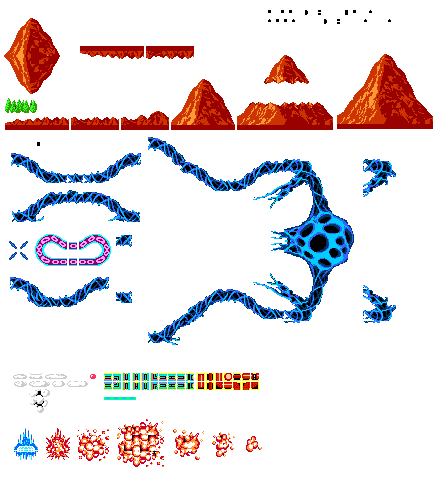
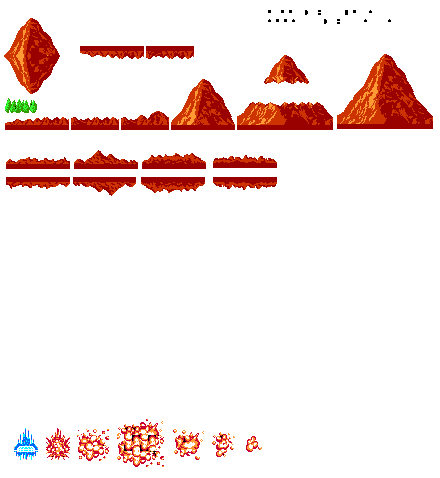
mapBuilder en construction

diff --git a/src/game/entities/Borders.java b/src/game/entities/Borders.java
@@ -5,6 +5,7 @@ import engine.Game;
 import engine.ISU;
 import engine.ISU.Dimension;
 import engine.shapes.Rect;
+import engine.view.View;
 import game.Main;
 import oop.graphics.BufferedImage;
 import oop.graphics.Graphics;
@@ -14,14 +15,29 @@ import oop.graphics.Graphics;
 // Mais pourquoi pas tenter de les tourner directemement dans le code
 public class Borders extends Entity{
 	protected int chosenSprite; //compris entre 0 et 1 pour l'instant
-	protected int chosenPos; //entre 0 et 1
+	protected int chosenPos; //entre 0 et 4
 	public Borders(String name, int chosenSprite, int chosenPos) {
 		super(name);
 		this.setSize(this.isu.new Dimension((Game.cmPerCell*63)/Main.windowScale + 69, (Game.cmPerCell*12)/Main.windowScale + 14));
 		this.chosenSprite = chosenSprite;
 		this.chosenPos = chosenPos;
 		this.avatar = new BorderAvatar(this);
-		//this.setlSpeed(10, 0);
+		
+	}
+	
+	@Override
+	public void setBounding() {
+		//pas de boundingbox
+	}
+	
+	public void tick(double seconds, boolean shift) {
+	    if (shift) {
+	        translate(isu.new Vector((-View.speed/4.0)*Main.windowScale, 0.0));
+	    }
+
+	    if (this.position().x < 0) {
+	        this.die();
+	    }
 	}
 	
 	public class BorderAvatar extends Avatar{
@@ -37,27 +53,39 @@ public class Borders extends Entity{
 		@Override
 		public void getSprites(Graphics g) {
 			BufferedImage imgSprites = g.load("obstacles.png");
-		    this.sprites = new BufferedImage[3][2];
+		    this.sprites = new BufferedImage[5][2];
 		    
 		    this.sprites[0][Bottom] = imgSprites.getSubimage(5, 117, 63, 12);
 		    this.sprites[0][Top] = imgSprites.getSubimage(80, 46, 63, 12);
 		    
-		    this.sprites[1][Bottom] = imgSprites.getSubimage(71, 117, 47, 12);
-		    this.sprites[1][Top] = imgSprites.getSubimage(146, 46, 47, 12);
+		    this.sprites[1][Bottom] = imgSprites.getSubimage(6, 157, 63, 12);
+		    this.sprites[1][Top] = imgSprites.getSubimage(6, 177, 63, 12);
 		    
-		    //this.sprites[2][0] = imgSprites.getSubimage(121, 111, 47, 18);
+		    this.sprites[2][Bottom] = imgSprites.getSubimage(74, 150, 63, 18);
+		    this.sprites[2][Top] = imgSprites.getSubimage(74, 177, 63, 18);
+		    
+		    this.sprites[3][Bottom] = imgSprites.getSubimage(142, 153, 63, 15);
+		    this.sprites[3][Top] = imgSprites.getSubimage(142, 177, 63, 15);
+		    
+		    this.sprites[4][Bottom] = imgSprites.getSubimage(213, 155, 63, 12);
+		    this.sprites[4][Top] = imgSprites.getSubimage(213, 177, 63, 12);
 		    
 		}
 
 		@Override
 		public void paint(Graphics g, int shiftPX) {
-			this.getSprites(g);
+			if (this.sprites == null) {
+	            this.getSprites(g);
+	        }
 	           
             ISU.Coord center = Borders.this.center();
             int posX = this.toPixel(center.x_cm - (Borders.this.size.x_cm / 2));
             int posY = this.toPixel(center.y_cm - (Borders.this.size.y_cm / 2));
+            BufferedImage currentImg = sprites[chosenSprite][chosenPos];
+            int width = (int)(currentImg.getWidth() * Main.windowScale);
+            int height = (int)(currentImg.getHeight() * Main.windowScale);
 			
-            g.drawImage(sprites[chosenSprite][chosenPos], posX+shiftPX, posY, (int)(63 * Main.windowScale), (int)(12*Main.windowScale));
+            g.drawImage(currentImg, posX + shiftPX, posY, width, height);
             
 		}
 		

diff --git a/src/game/MapBuilder.java b/src/game/MapBuilder.java
@@ -12,38 +12,59 @@ import oop.graphics.Canvas;
 //WORK IN PROGRESS
 public class MapBuilder {
 	
-//	private MontFendu mfd;
-//	private Borders[] borders;
-//	private int nbBorders;
-//	private Model model;
-//	private View view;
 
 	public MapBuilder(Model model, View view) {
-//		this.mfd = new MontFendu();
-//		this.nbBorders = 4;
-//		this.borders = new Borders[nbBorders];
-//		this.model = model;
-//		this.view =view;
 		
-		//placeObstacle();
 	}
 	
 	public static void placeObstacle(Model model, View view, Canvas c) {
-		int nbBorders = 4;
-		Borders[] borders = new Borders[nbBorders];
+
 		
-		borders[0] = new Borders("n1",0,1);
-		Borders b1 = borders[0];
-		b1.setCoord(Game.game().isu.new Coord(c.getWidth()/Main.windowScale, 10));
-		placeEntity(model,view,b1);
-		borders[1] = new Borders("n2",0,0);
-		Borders b2 = borders[1];
-		b2.setCoord(Game.game().isu.new Coord(c.getWidth()/Main.windowScale, c.getHeight()*1.75/Main.windowScale));
-		placeEntity(model,view,b2);
+	    double screenWidth = c.getWidth() / Main.windowScale; 
+	    System.out.println("width" + screenWidth);
+	    double topY = 10.0; 
+	    double bottomY = (c.getHeight() / Main.windowScale) + 130;
+
+	    double currentX = 0.0; 
+	    int id = 0;
+	    while (currentX < screenWidth) {
+	    	int spriteType=0;
+	        double rand = Math.random();
+	        if (rand<0.2) {
+	        	spriteType=0;
+	        }else if(rand<0.4 && rand>=0.2) {
+	        	spriteType=1;
+	        }else if(rand<0.6 && rand>=0.4) {
+	        	spriteType=2;
+	        }else if(rand<0.8 && rand>=0.6) {
+	        	spriteType=3;
+	        }else if(rand>=0.8){
+	        	spriteType=4;
+	        }
+	        
+	        
+	        double width = 63.0;
+	        
+	        // --- PLACEMENT EN HAUT ---
+	        Borders topBorder = new Borders("top_" + id, spriteType, 1);
+	        
+	        topBorder.setCoord(Game.game().isu.new Coord(currentX + (width / 2.0), topY));
+	       
+	        topBorder.size = Game.game().isu.new Dimension(width, 12); 
+	        placeEntity(model, view, topBorder);
+	        
+	        // --- PLACEMENT EN BAS ---
+	        Borders botBorder = new Borders("bot_" + id, spriteType, 0);
+	        botBorder.setCoord(Game.game().isu.new Coord(currentX + (width / 2.0), bottomY));
+	        botBorder.size = Game.game().isu.new Dimension(width, 12);
+	        placeEntity(model, view, botBorder);
+	        currentX += width;
+	        id++;
+	    }
 	}
 	
 	private static void placeEntity(Model model, View view, Entity e) {
-		e.setBounding();
+		//e.setBounding();
 		model.add(e);
 		view.add(e.getAvatar());
 	}

diff --git a/src/game/entities/MissilePlayer.java b/src/game/entities/MissilePlayer.java
@@ -11,7 +11,7 @@ import oop.graphics.Graphics;
 
 public class MissilePlayer extends Entity{
 	
-	
+	private int shift;
 
 	public MissilePlayer(String name) {
 		super(name);
@@ -21,7 +21,7 @@ public class MissilePlayer extends Entity{
 	
 	
 	public void tick() {
-		if (this.position().x >=140) { //récupérer taille fenetre/ViewPort
+		if (this.position().x >=140 + shift) { //récupérer taille fenetre/ViewPort
 			die();
 		}
 //		if (collision()) {
@@ -49,6 +49,7 @@ public class MissilePlayer extends Entity{
 
 		@Override
 		public void paint(Graphics g, int shiftPX) {
+			shift = shiftPX;
 			this.getSprites(g);
             
             ISU.Coord center = MissilePlayer.this.center(); //para el Gruber
@@ -56,7 +57,7 @@ public class MissilePlayer extends Entity{
             int posY = this.toPixel(center.y_cm - (MissilePlayer.this.size.y_cm / 2));
             
            
-            g.drawImage(sprites[0][0], posX, posY, (int)(6 * Main.windowScale), (int)(3*Main.windowScale));
+            g.drawImage(sprites[0][0], posX + shiftPX, posY, (int)(6 * Main.windowScale), (int)(3*Main.windowScale));
 			
 		}
 		

diff --git a/src/game/entities/Background.java b/src/game/entities/Background.java
@@ -45,6 +45,8 @@ public class Background extends Entity {
 			int canvasWidth = canvas.getWidth();
 			int canvasHeight = canvas.getHeight();
 			
+			
+			
 			if (xPosition+shiftPX < -canvasWidth)
 				xPosition += canvasWidth;
 			
@@ -55,7 +57,6 @@ public class Background extends Entity {
 
 	@Override
 	public void setBounding() {
-		// TODO Auto-generated method stub
 		
 	}
 }

diff --git a/src/engine/Entity.java b/src/engine/Entity.java
@@ -109,7 +109,7 @@ public abstract class Entity {
 		this.bot = bot;
 	}
 	
-	public void setModel(Model model) { //On est sûr de ça la ?
+	public void setModel(Model model) { 
 		this.model = model;
 	}
 
